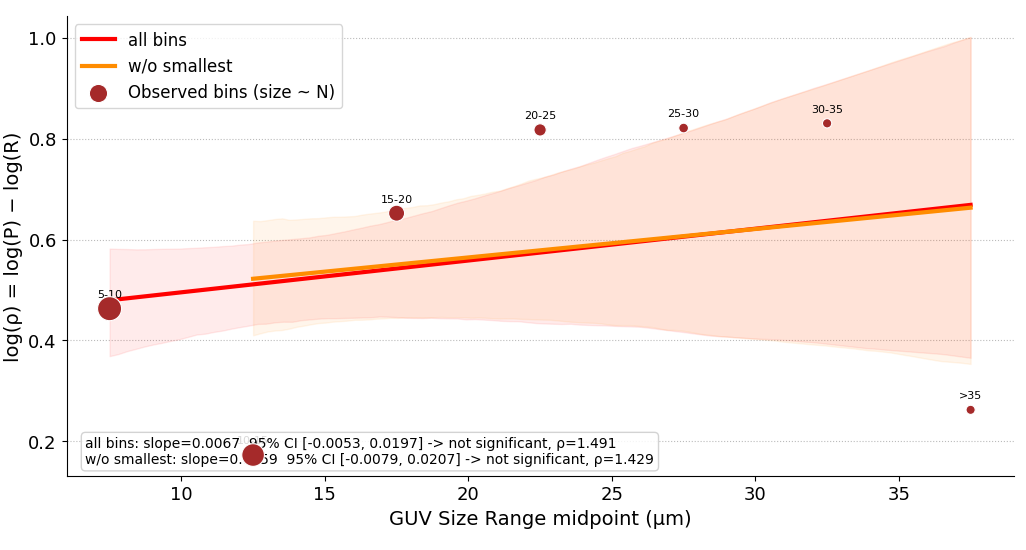
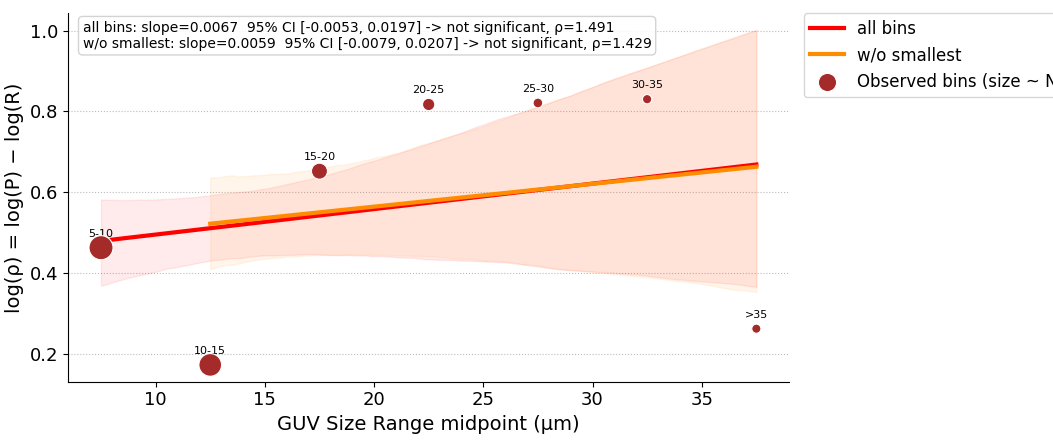
updating advanced ebvaluation stylish and bugs in app modern

diff --git a/guv_detection/app/app_modern.py b/guv_detection/app/app_modern.py
@@ -930,7 +930,7 @@ class GUVDetectorGUI:
                 x = np.linspace(0, max(dim_list), 1000)
                 pdf = lognorm.pdf(x, shape, loc=loc, scale=scale)
                 ax.plot(x, pdf, color=C["ink"], linestyle='-', linewidth=3,
-                        label=(f'Log-normal fit\nµm={mu_ln:.2f}, σ={sigma_ln:.2f}\n'
+                        label=(f'Log-normal fit\nµ={mu_ln:.2f}, σ={sigma_ln:.2f}\n'
                                f'Total GUVs: {len(dim_list)}'))
             ax.set_xlabel('GUV Diameter (µm)', fontsize=20, color=C["ink"])
             ax.set_ylabel('Density of GUVs', fontsize=20, color=C["ink"])
@@ -964,7 +964,7 @@ class GUVDetectorGUI:
             self.append_result(f"Total GUVs detected: {len(arr)}")
             self.append_result(f"Edge: {count_edge}  |  Interior: {count_inter}")
             self.append_result(f"Median: {median:.2f} µm  Q1: {q1:.2f} µm  Q3: {q3:.2f} µm")
-            self.append_result(f"Log-normal  µm={mu_ln:.2f}, σ={sigma_ln:.2f}")
+            self.append_result(f"Log-normal  µ={mu_ln:.2f}, σ={sigma_ln:.2f}")
             self.append_result(f"Calibration: {calib:.4f} µm/pixel (global)")
             self.append_result(f"Plot saved:  {plot_path}")
 
@@ -1153,7 +1153,7 @@ class GUVDetectorGUI:
             x = np.linspace(0, max(dim_list), 1000)
             ax.plot(x, lognorm.pdf(x, shape, loc=loc, scale=scale), color=C["ink"],
                     linestyle='-', linewidth=3,
-                    label=(f'Log-normal fit\nµm={mu_ln:.2f}, σ={sigma_ln:.2f}\n'
+                    label=(f'Log-normal fit\nµ={mu_ln:.2f}, σ={sigma_ln:.2f}\n'
                            f'Total GUVs: {len(dim_list)}'))
         ax.set_xlabel('GUV Diameter (µm)', fontsize=20, color=C["ink"])
         ax.set_ylabel('Density of GUVs', fontsize=20, color=C["ink"])
@@ -1185,7 +1185,7 @@ class GUVDetectorGUI:
         # text summary for this subfolder
         self.append_result(f"  GUVs: {len(arr)}  |  Edge: {count_edge}  |  Interior: {count_inter}")
         self.append_result(f"  Median: {median:.2f} µm  Q1: {q1:.2f} µm  Q3: {q3:.2f} µm")
-        self.append_result(f"  Log-normal  µm={mu_ln:.2f}, σ={sigma_ln:.2f}")
+        self.append_result(f"  Log-normal  µ={mu_ln:.2f}, σ={sigma_ln:.2f}")
         self.append_result(f"  Plot: {plot_path}")
 
     # ------------------------------------------------------------------

diff --git a/guv_detection/evaluation/advanced_evaluation.py b/guv_detection/evaluation/advanced_evaluation.py
@@ -465,8 +465,8 @@ def _draw_rho_trend_plot(obs_scores, obs_log_rho, obs_weights, obs_names,
         ax.annotate(name, (xi, yi), textcoords="offset points", xytext=(0, 8),
                     ha='center', fontsize=FS_ANNOT)
 
-    ax.text(0.02, 0.02, "\n".join(summary_lines),
-            transform=ax.transAxes, fontsize=FS_ANNOT + 2, va='bottom', ha='left',
+    ax.text(0.02, 0.98, "\n".join(summary_lines),
+            transform=ax.transAxes, fontsize=FS_ANNOT + 2, va='top', ha='left',
             bbox=dict(boxstyle='round', facecolor='white', alpha=0.85, edgecolor='#cccccc'))
 
     ax.set_xlabel(xlabel, fontsize=FS_LABEL)
@@ -476,7 +476,7 @@ def _draw_rho_trend_plot(obs_scores, obs_log_rho, obs_weights, obs_names,
     ax.spines['right'].set_visible(False)
     ax.yaxis.grid(True, linestyle=':', linewidth=0.8, color='#bbbbbb', zorder=0)
     ax.set_axisbelow(True)
-    ax.legend(fontsize=FS_LEGEND, loc='best')
+    ax.legend(fontsize=FS_LEGEND, loc='upper left', bbox_to_anchor=(1.02, 1), borderaxespad=0)
     # plt.title(title, fontsize=FS_LABEL + 2)
     plt.tight_layout()
     plt.show()
